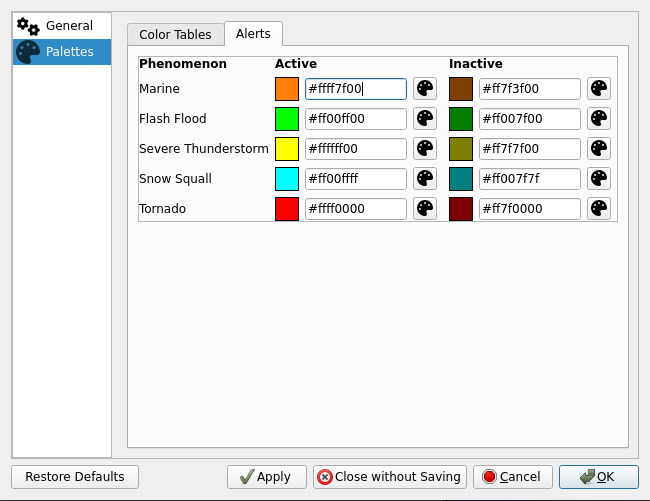
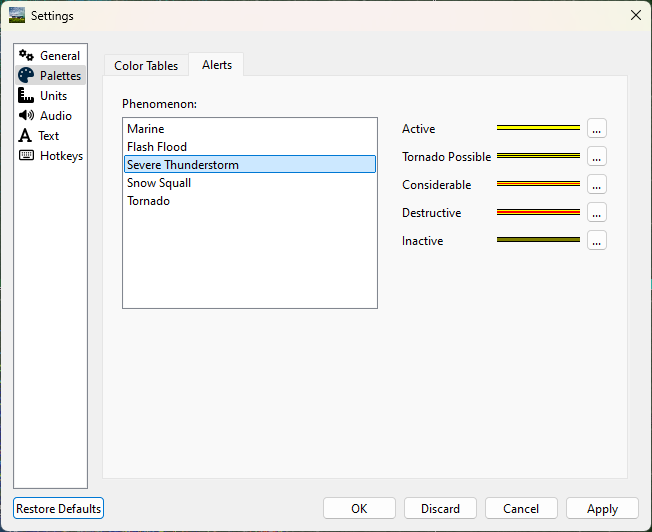
Updating themes, alerts palettes, and audio settings

Changed region(s): [[0.0, 0.0, 1.0, 1.0], [0.9538, 0.8683, 0.9846, 0.8982]]

diff --git a/user-guide/settings.rst b/user-guide/settings.rst
@@ -140,7 +140,36 @@ For Windows, this is the *Windows Vista* style, and for Linux, this is the
 rest of the operating system.
 
 **Fusion** will select the Fusion theme. On Linux, this is already the default.
-On Windows, this will enable a Dark Mode if turned on in Windows settings.
+On Windows, this typically enables a Dark Mode if turned on in Windows settings.
+
+**Fusion Light** will select the Fusion theme and attempt to use a Light Mode
+palette. You can use this to override the default Light or Dark Mode selection
+from the Fusion theme. Note the override does not work in some desktop
+environments.
+
+**Fusion Dark** will select the Fusion theme and attempt to use a Dark Mode
+palette. You can use this to override the default Light or Dark Mode selection
+from the Fusion theme. Note the override does not work in some desktop
+environments.
+
+**Fusion Custom** will select the Fusion theme and allow the user to supply a
+custom `color scheme <#theme-file>`_.
+
+Additional Fusion Themes are available for selection. These will select the
+Fusion theme along with a specific color scheme.
+
+- Fusion Airy
+- Fusion Darker
+- Fusion Dusk
+- Fusion IA Ora
+- Fusion Sand
+- Fusion Waves
+
+Theme File
+^^^^^^^^^^
+When using the **Fusion Custom** Theme, allows the the use of a custom color
+scheme. See `qt6ct <https://github.com/trialuser02/qt6ct/tree/master/colors>`_
+for sample palettes.
 
 Warnings Provider
 ^^^^^^^^^^^^^^^^^
@@ -184,6 +213,9 @@ Enables the **Debug** options menu.
 Palettes
 --------
 
+Color Tables
+^^^^^^^^^^^^
+
 The map and radar display have multiple customization options, including color
 tables. The default color tables come from `NOAA's Weather and Climate Toolkit
 <https://www.ncdc.noaa.gov/wct/index.php>`_, but can be modified from the
@@ -198,11 +230,20 @@ Additional color tables can be found at a number of sites, including:
 - https://grlevelxusers.com/grlevelx-goodies/categories/color-tables/
 - https://www.wxtools.org/
 
-In addition to color tables, alert colors can also be modified. Use the text box
-to specify a color in ARGB hexadecimal format (#aarrggbb), or use the color
-picker to select a color.
+Alerts
+^^^^^^
+
+In addition to color tables, alert colors can also be modified. First, select
+the Phenomenon from the list. Next, select the adjacent tool button next to the
+Category.
 
 .. image:: images/settings-palette-02-alerts.png
+
+Use the text boxes to specify a colors in ARGB hexadecimal format (#aarrggbb),
+or use the color pickers to select a color. Adjust the width value to customize
+the appearance of the line further.
+
+.. image:: images/settings-palette-03-edit-line.png
 
 Audio
 -----
@@ -236,6 +277,18 @@ When using the **Track** location method, Supercell Wx will request location
 information from the operating system. This may result in the operating system
 notifying the user that Supercell Wx is using location information.
 
+Radar Site
+""""""""""
+
+The **Radar Site** location method will enable alerts issued within a selected
+radius from the selected Radar Site. In addition to selecting a radar site, two
+special values can be selected.
+
+- With Radar Site set to **default**, the default radar site will always be used
+  when determining whether to play an alert sound.
+- With Radar Site set to **follow**, the currently selected radar site will be
+  used when determining whether to play an alert sound.
+
 County
 """"""
 
@@ -243,6 +296,20 @@ With the **County** location method, the user can select a county. Pressing the
 adjacent tool button will open a county selection dialog.
 
 .. image:: images/settings-audio-02-county.png
+
+WFO
+"""
+
+With the **WFO** location method, the user can select a Weather Forecast Office.
+Pressing the adjacent tool button will open a WFO selection dialog.
+
+.. image:: images/settings-audio-03-wfo.png
+
+All
+"""
+
+With the **All** location method, alert audio notifications will be played for
+any location.
 
 Text
 ----
